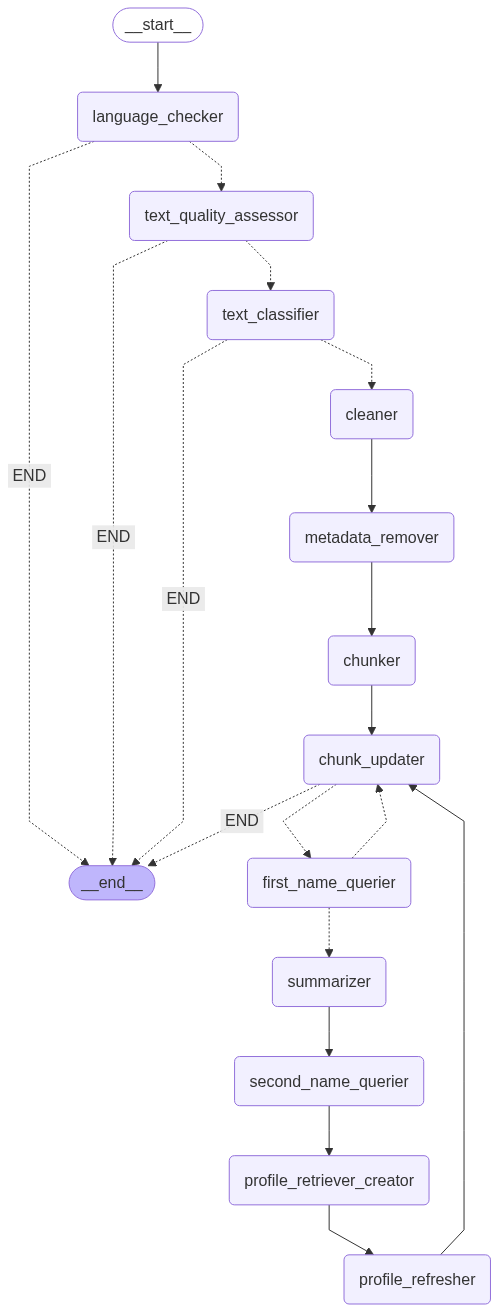
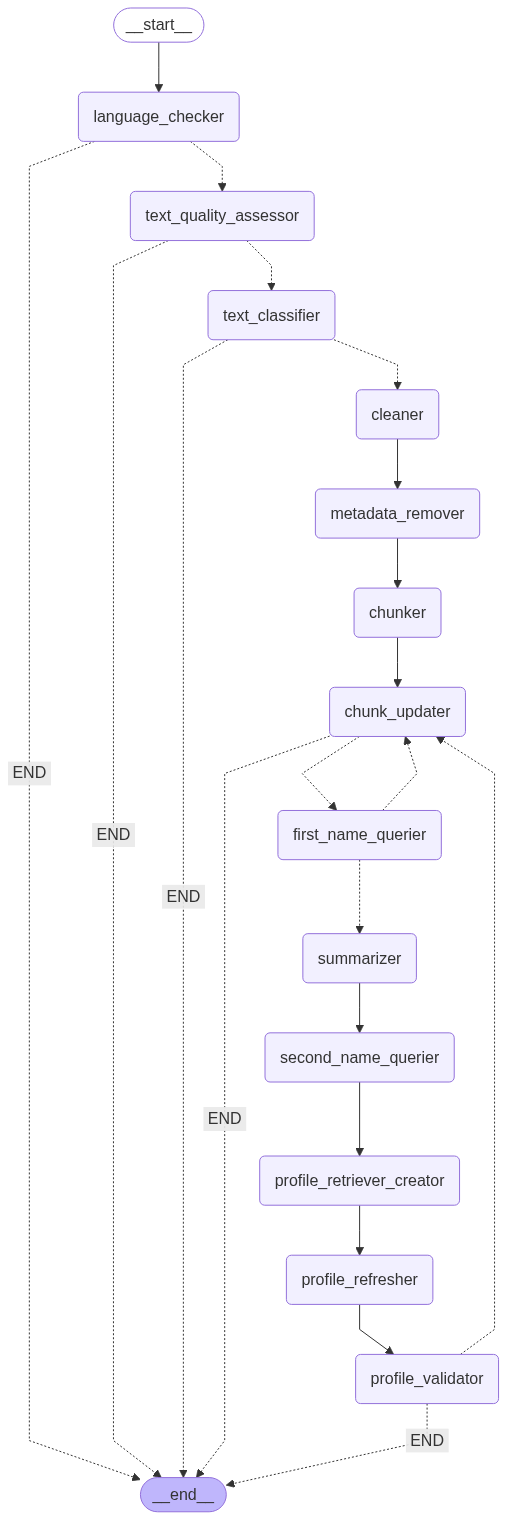
profile validation Node
Added profile validation node with an output that stick with the state to use it later profiles re checker nodes

diff --git a/django/ai_workflow/src/graphs/nodes/regular_nodes.py b/django/ai_workflow/src/graphs/nodes/regular_nodes.py
@@ -1,12 +1,12 @@
-from ai_workflow.src.language_models.prompts import name_query_prompt, profile_update_prompt, summary_prompt, text_quality_assessment_prompt, text_classification_prompt
-from ai_workflow.src.language_models.llms import name_query_llm, profile_update_llm, summary_llm, text_quality_assessment_llm, text_classification_llm
+from ai_workflow.src.language_models.prompts import name_query_prompt, profile_update_prompt, summary_prompt, text_quality_assessment_prompt, text_classification_prompt, profile_validation_prompt 
+from ai_workflow.src.language_models.llms import name_query_llm, profile_update_llm, summary_llm, text_quality_assessment_llm, text_classification_llm, profile_validation_llm
 from ai_workflow.src.preprocessors.text_checkers import ArabicLanguageDetector
 from ai_workflow.src.schemas.states import State
 from ai_workflow.src.preprocessors.text_splitters import TextChunker
 from ai_workflow.src.preprocessors.text_cleaners import clean_arabic_text_comprehensive
 from ai_workflow.src.preprocessors.metadata_remover import remove_book_metadata
 from ai_workflow.src.databases.database import character_db
-from ai_workflow.src.schemas.data_classes import Profile, TextQualityAssessment, TextClassification
+from ai_workflow.src.schemas.data_classes import Profile, TextQualityAssessment, TextClassification, ProfileValidation
 import os
 import random
 
@@ -391,4 +391,55 @@ def text_classifier(state: State):
     
     return {
         'text_classification': classification
+    }
+
+
+
+def profile_validator(state: State):
+    """
+    Node that validates profiles for emptiness and repetitiveness.
+    """
+    if not state['last_profiles']:
+        return {
+            'profile_validation': ProfileValidation(
+                has_empty_profiles=False,
+                has_repetitive_profiles=False,
+                empty_profiles=[],
+                repetitive_profiles=[],
+                suggestions=["لا توجد بروفايلات للتحقق منها"],
+                validation_score=1.0
+            )
+        }
+    
+    # Convert profiles to a format suitable for the LLM
+    profiles_text = ""
+    for i, profile in enumerate(state['last_profiles']):
+        profiles_text += f"البروفايل {i+1}:\n"
+        profiles_text += f"الاسم: {profile.name}\n"
+        profiles_text += f"التلميح: {profile.hint}\n"
+        profiles_text += f"العمر: {profile.age}\n"
+        profiles_text += f"الدور: {profile.role}\n"
+        profiles_text += f"الصفات الجسدية: {', '.join(profile.physical_characteristics)}\n"
+        profiles_text += f"الشخصية: {profile.personality}\n"
+        profiles_text += f"الأحداث: {', '.join(profile.events)}\n"
+        profiles_text += f"العلاقات: {', '.join(profile.relationships)}\n"
+        profiles_text += f"الأسماء البديلة: {', '.join(profile.aliases)}\n"
+        profiles_text += "---\n"
+    
+    chain_input = {
+        "profiles": profiles_text
+    }
+    
+    chain = profile_validation_prompt | profile_validation_llm
+    response = chain.invoke(chain_input)
+    validation = ProfileValidation(
+        has_empty_profiles= response.has_empty_profiles,
+        has_repetitive_profiles=response.has_empty_profiles,
+        empty_profiles=response.has_empty_profiles,
+        repetitive_profiles=response.has_empty_profiles,
+        suggestions=response.has_empty_profiles,
+        validation_score=response.has_empty_profiles
+    )
+    return {
+        'profile_validation': validation
     }

diff --git a/django/ai_workflow/src/language_models/prompts.py b/django/ai_workflow/src/language_models/prompts.py
@@ -208,6 +208,34 @@ TEXT_CLASSIFICATION_SYSTEM_PROMPT = '''
 6. اشرح منطق التصنيف.
 7. اذكر الخصائص المحددة التي أدت إلى هذا التصنيف.
 '''
+PROFILE_VALIDATION_SYSTEM_PROMPT = '''
+أنت خبير في تحليل وتقييم بروفايلات الشخصيات الأدبية. مهمتك هي فحص قائمة البروفايلات للكشف عن:
+
+1. **البروفايلات الفارغة**: البروفايلات التي تحتوي على معلومات قليلة أو غير كافية
+2. **البروفايلات المتكررة**: البروفايلات التي تمثل نفس الشخصية بأسماء مختلفة قليلاً
+
+### معايير التقييم:
+
+**البروفايلات الفارغة:**
+- بروفايلات تحتوي على معلومات قليلة جداً
+- بروفايلات بدون صفات جسدية أو نفسية
+- بروفايلات بدون أحداث أو علاقات
+
+**البروفايلات المتكررة:**
+- أسماء متشابهة (مثل: "أحمد" و "أحمد محمد")
+- أسماء مع اختلافات طفيفة (مثل: "فاطمة" و "فاطمة أحمد")
+- شخصيات بنفس الدور والصفات
+
+### المخرجات المطلوبة:
+- تحديد البروفايلات الفارغة
+- تحديد البروفايلات المتكررة
+- اقتراحات للتحسين
+- درجة جودة عامة للبروفايلات
+### ملاحظات  :
+- ان وجود بروفايلات مكررة يجعل الجودة اسوأ أكثر من وجود بروفايلات فارغة
+- اذ كانت البروفايلات الفارغة في نهاية القائمة فهي غالبا تعبر عن شخصيات حديثة الظهور لذلك تساهل في تقييمها
+-اجعل مقترحات التحسين سهلة وواضحة للفهم
+'''
 
 
 name_query_prompt = ChatPromptTemplate.from_messages([
@@ -238,4 +266,8 @@ text_quality_assessment_prompt = ChatPromptTemplate.from_messages([
 text_classification_prompt = ChatPromptTemplate.from_messages([
     ("system", TEXT_CLASSIFICATION_SYSTEM_PROMPT),
     ("human", "النص المراد تصنيفه:\n{text}")
+])
+profile_validation_prompt = ChatPromptTemplate.from_messages([
+    ("system", PROFILE_VALIDATION_SYSTEM_PROMPT),
+    ("human", "النص المراد تقييمه:\n{profiles}")
 ])

diff --git a/django/ai_workflow/src/schemas/output_structures.py b/django/ai_workflow/src/schemas/output_structures.py
@@ -86,3 +86,11 @@ class TextClassification(BaseModel):
     literary_features: List[str] = Field(description="قائمة بالخصائص الأدبية الموجودة في النص (إذا كان أدبياً)")
     non_literary_features: List[str] = Field(description="قائمة بالخصائص غير الأدبية الموجودة في النص (إذا لم يكن أدبياً)")
 
+class ProfileValidation(BaseModel):
+    """Use this schema to format the profile validation output."""
+    has_empty_profiles: bool = Field(description="هل توجد بروفايلات فارغة")
+    has_repetitive_profiles: bool = Field(description="هل توجد بروفايلات متكررة")
+    empty_profiles: List[str] = Field(description="قائمة بأسماء البروفايلات الفارغة")
+    repetitive_profiles: List[str] = Field(description="قائمة بأسماء البروفايلات المتكررة")
+    suggestions: List[str] = Field(description="اقتراحات لتحسين البروفايلات")
+    validation_score: float = Field(description="درجة جودة البروفايلات من 0 إلى 1")

diff --git a/django/ai_workflow/src/language_models/llms.py b/django/ai_workflow/src/language_models/llms.py
@@ -4,7 +4,7 @@ from langchain_google_genai import (
     HarmCategory,
     
 )
-from ai_workflow.src.schemas.output_structures import NameQuerier, ProfileRefresher, Summary, BookNameExtractor, TextQualityAssessment, TextClassification
+from ai_workflow.src.schemas.output_structures import NameQuerier, ProfileRefresher, Summary, BookNameExtractor, TextQualityAssessment, TextClassification, ProfileValidation
 from ai_workflow.src.language_models.tools import character_role_tool
 from dotenv import load_dotenv
 
@@ -57,3 +57,7 @@ text_classification_llm = ChatGoogleGenerativeAI(model=model,
                                                 temperature=0.0,
                                                 safety_settings=safety_settings,
                                                 ).with_structured_output(TextClassification)
+profile_validation_llm = ChatGoogleGenerativeAI(model=model,
+                                               temperature=0.0,
+                                               safety_settings=safety_settings,
+                                               ).with_structured_output(ProfileValidation)

diff --git a/django/ai_workflow/src/graphs/graph_builders.py b/django/ai_workflow/src/graphs/graph_builders.py
@@ -17,10 +17,22 @@ graph.add_node('metadata_remover', metadata_remover)
 graph.add_node('text_quality_assessor', text_quality_assessor)
 graph.add_node('text_classifier', text_classifier)
 
+graph.add_node('profile_validator', profile_validator)
+
+
 graph.set_entry_point('language_checker')
 graph.add_edge('cleaner', 'metadata_remover')
 graph.add_edge('metadata_remover', 'chunker')
 graph.add_edge('chunker', 'chunk_updater')
+
+graph.add_conditional_edges(
+    'profile_validator',
+    router_from_profile_validator_to_chunk_updater_or_end,
+    {
+        'chunk_updater': 'chunk_updater',
+        'END': END
+    }
+)
 
 graph.add_conditional_edges('language_checker', router_from_language_checker_to_text_quality_assessor_or_end, {
     'text_quality_assessor': 'text_quality_assessor',
@@ -57,6 +69,6 @@ graph.add_edge('second_name_querier', 'profile_retriever_creator')
 
 graph.add_edge('profile_retriever_creator', 'profile_refresher')
 
-graph.add_edge('profile_refresher', 'chunk_updater')
+graph.add_edge('profile_refresher', 'profile_validator')
 
 compiled_graph = graph.compile()

diff --git a/django/ai_workflow/src/schemas/states.py b/django/ai_workflow/src/schemas/states.py
@@ -1,7 +1,7 @@
 from typing import TypedDict
 from langgraph.graph.message import add_messages
 from ai_workflow.src.databases.database import CharacterDatabase
-from ai_workflow.src.schemas.data_classes import Profile, LastAppearingCharacter, TextQualityAssessment, TextClassification
+from ai_workflow.src.schemas.data_classes import Profile, LastAppearingCharacter, TextQualityAssessment, TextClassification, ProfileValidation
 
 class State(TypedDict):
     file_path: str
@@ -18,6 +18,7 @@ class State(TypedDict):
     last_summary: str
     text_quality_assessment: TextQualityAssessment | None
     text_classification: TextClassification | None
+    profile_validation: ProfileValidation | None
 
 initial_state = {
     'file_path': 'ai_workflow/resources/texts/اللص والكلاب.txt',
@@ -32,5 +33,7 @@ initial_state = {
     'no_more_chunks': False,
     'last_summary': '',
     'text_quality_assessment': None,
-    'text_classification': None
+    'text_classification': None,
+    'profile_validation': None
+    
 }

diff --git a/django/ai_workflow/src/graphs/nodes/router_nodes.py b/django/ai_workflow/src/graphs/nodes/router_nodes.py
@@ -56,3 +56,15 @@ def router_from_text_classifier_to_cleaner_or_end(state: State):
         return 'cleaner'
     else:
         return 'END'
+
+def router_from_profile_validator_to_chunk_updater_or_end(state: State):
+    """
+    Node that routes to profile refresher or end based on profile validation results.
+    """
+    validation = state['profile_validation']
+    
+    # If there are significant issues with profiles, continue to profile refresher
+    if (validation.has_empty_profiles and validation.has_repetitive_profiles) or validation.validation_score < 0.65:
+        return 'END'
+    else:
+        return 'chunk_updater'

diff --git a/django/ai_workflow/src/schemas/data_classes.py b/django/ai_workflow/src/schemas/data_classes.py
@@ -35,4 +35,12 @@ class TextClassification:
     reasoning: str
     literary_features: list[str]
     non_literary_features: list[str]
-    
+
+@dataclass
+class ProfileValidation :
+    has_empty_profiles: bool 
+    has_repetitive_profiles: bool 
+    empty_profiles: list[str]
+    repetitive_profiles: list[str] 
+    suggestions: list[str] 
+    validation_score: float 
